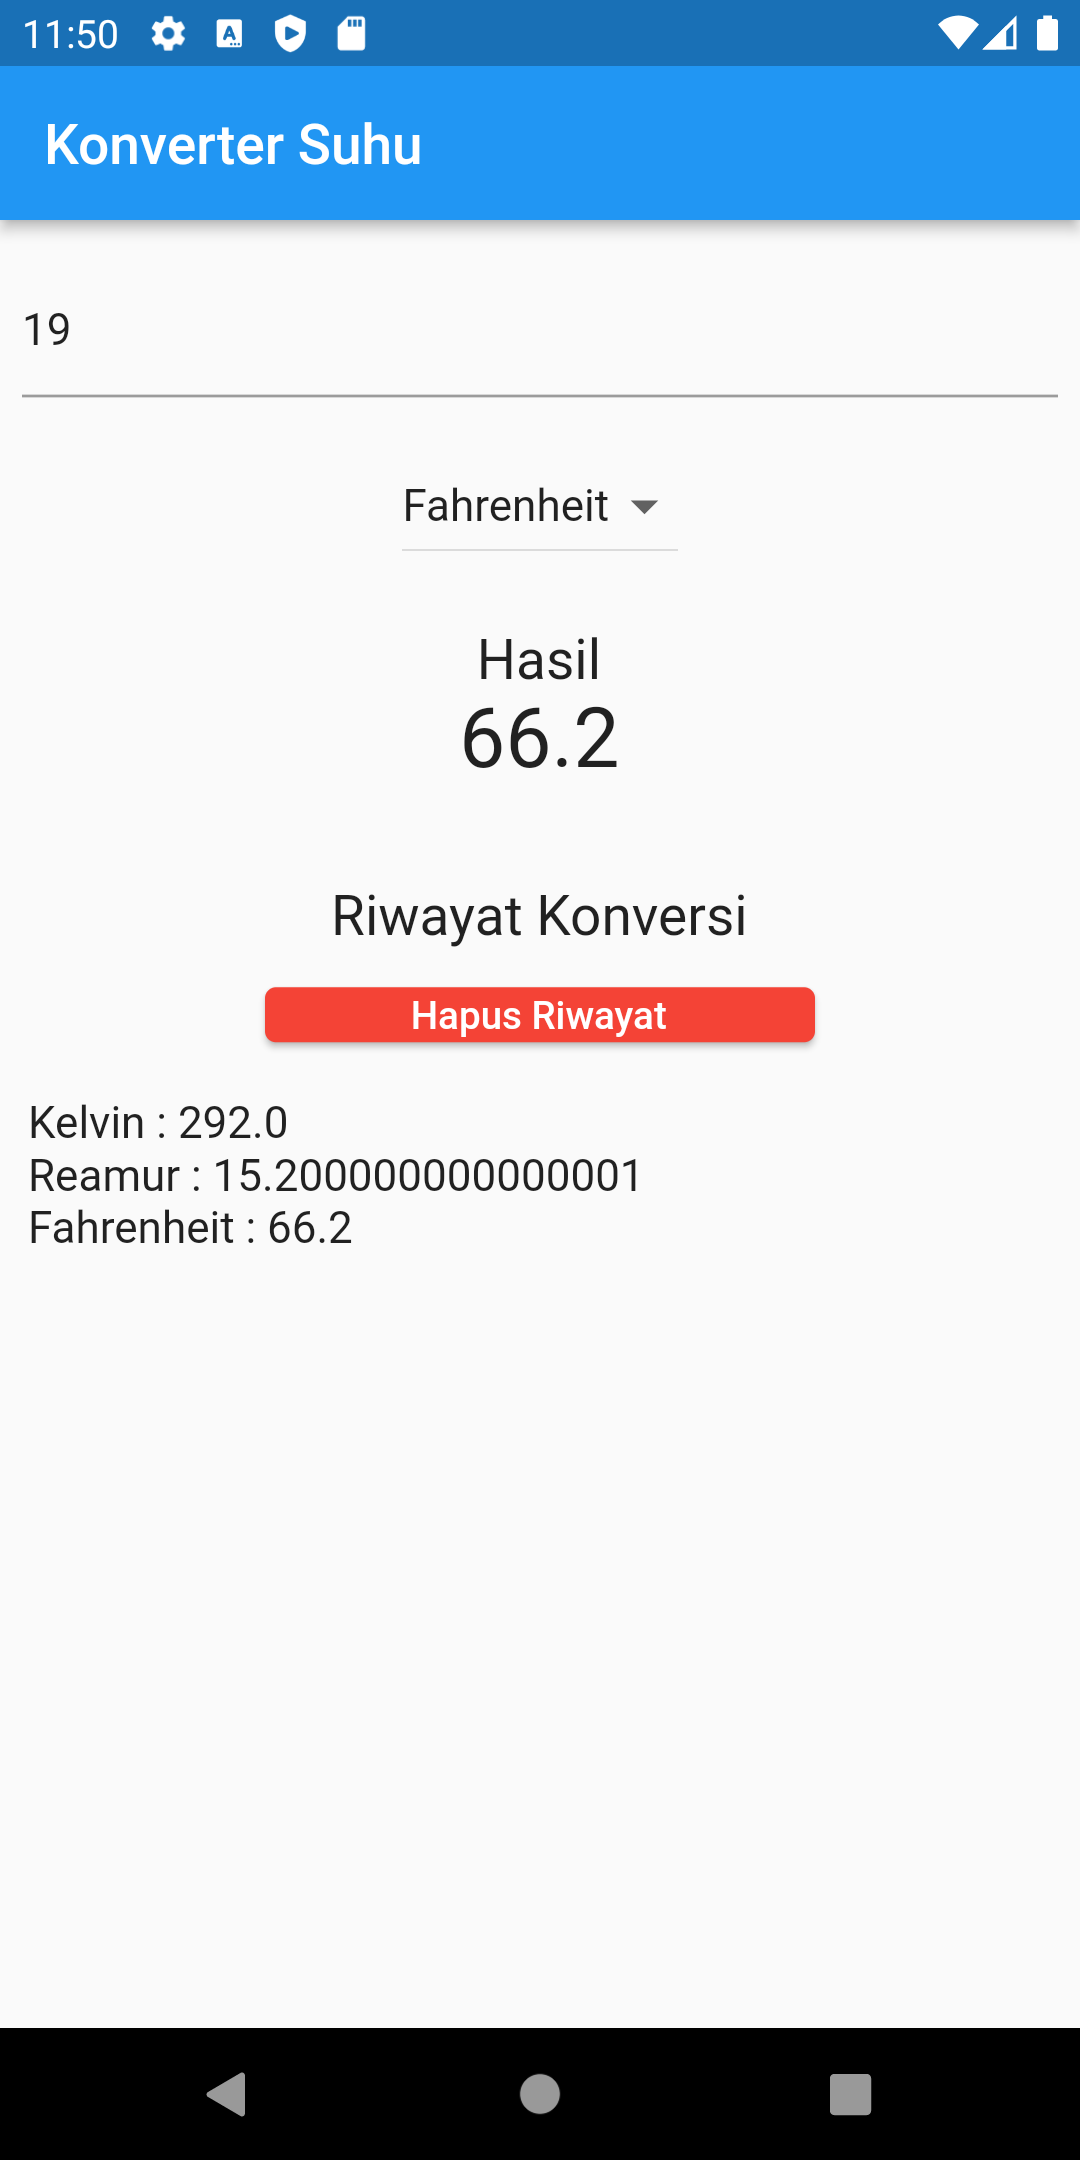
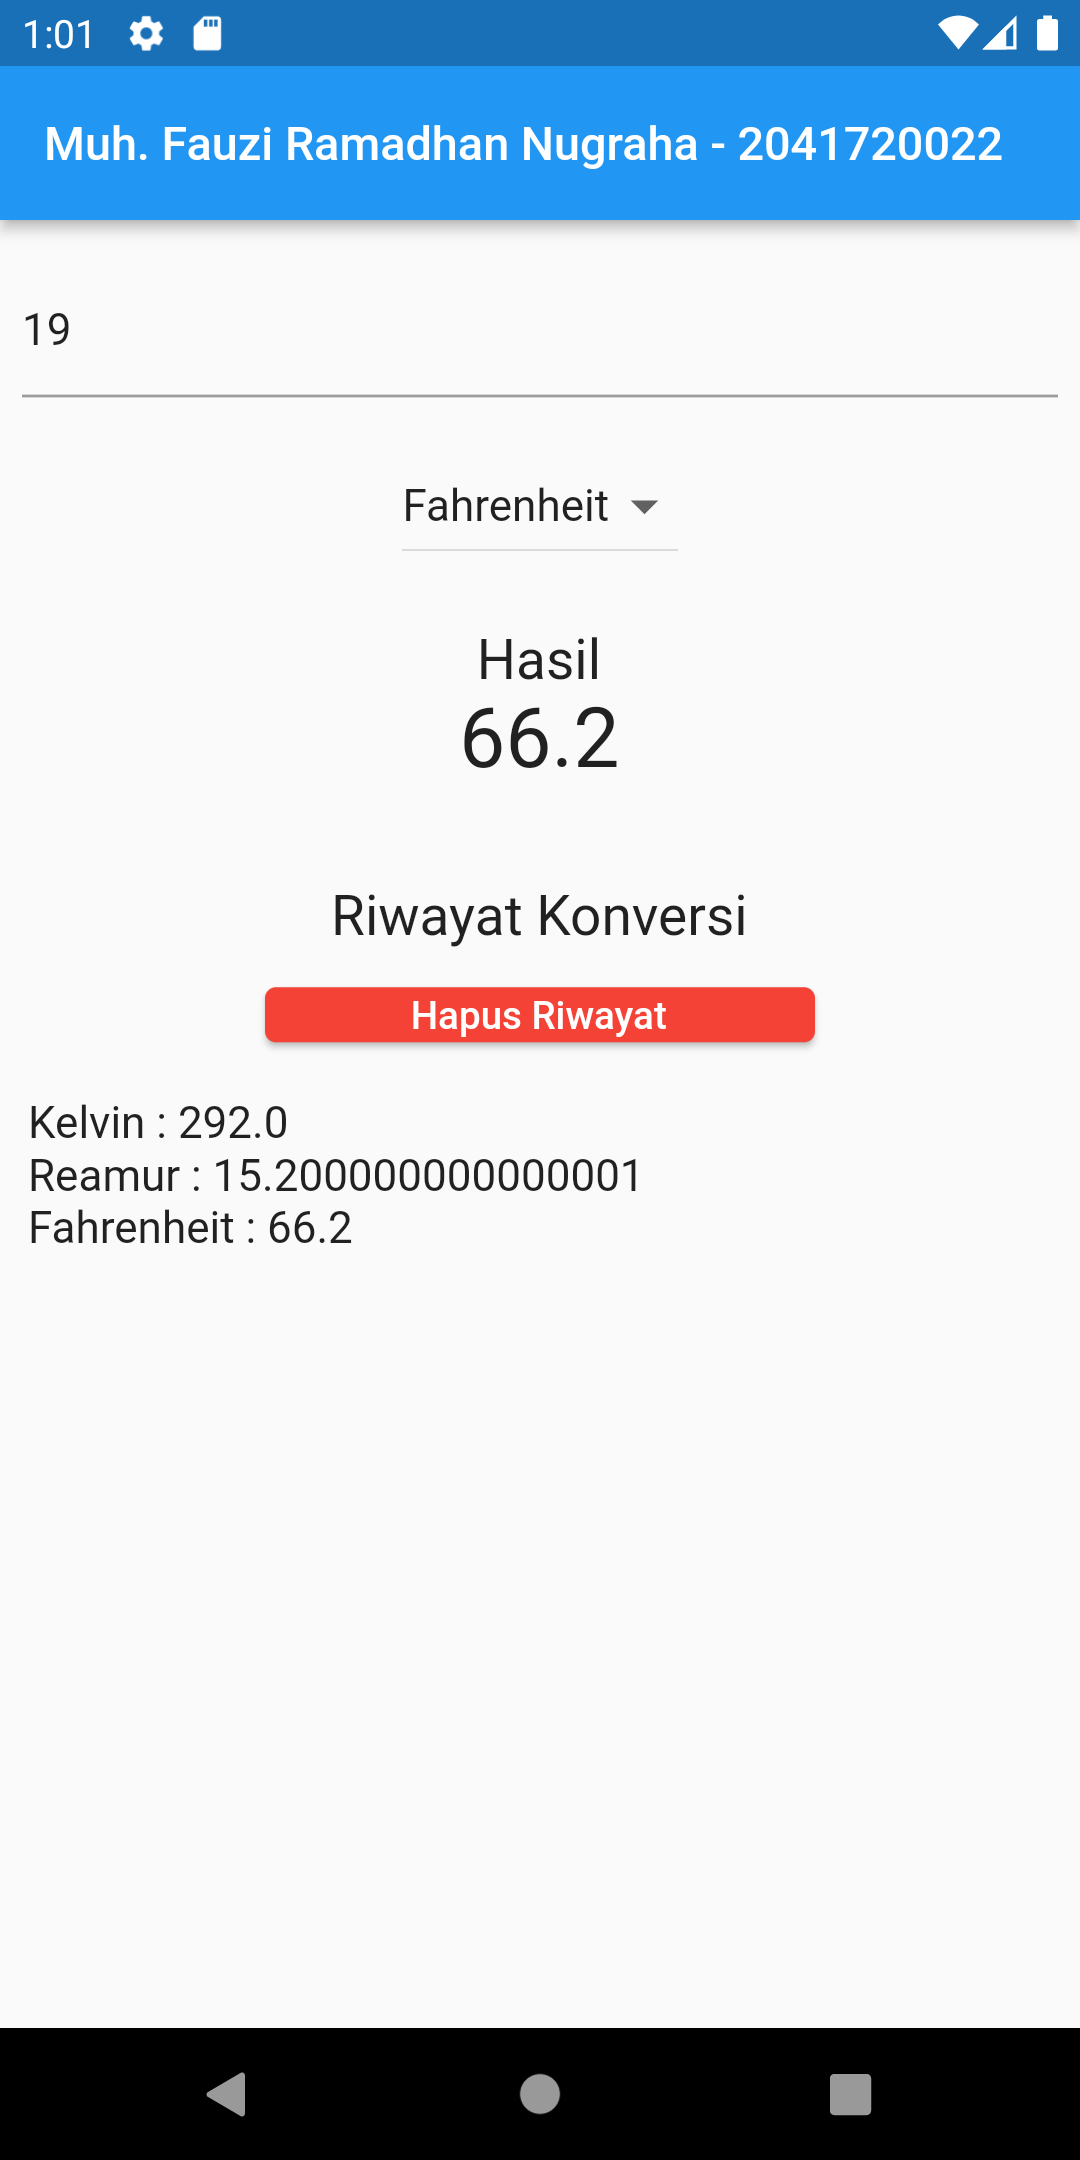
Update App Bar (Nama & Nim) + Update Readme

Changed region(s): [[0.0306, 0.062, 0.6417, 0.0931], [0.0306, 0.0, 0.3361, 0.031], [0.6722, 0.062, 0.9167, 0.0931]]

diff --git a/lib/main.dart b/lib/main.dart
@@ -72,7 +72,10 @@ class _MyAppState extends State<MyApp> {
       ),
       home: Scaffold(
         appBar: AppBar(
-          title: const Text("Konverter Suhu"),
+          title: const Text(
+            "Muh. Fauzi Ramadhan Nugraha - 2041720022",
+            style: TextStyle(fontSize: 17),
+          ),
         ),
         body: Container(
           child: Column(
